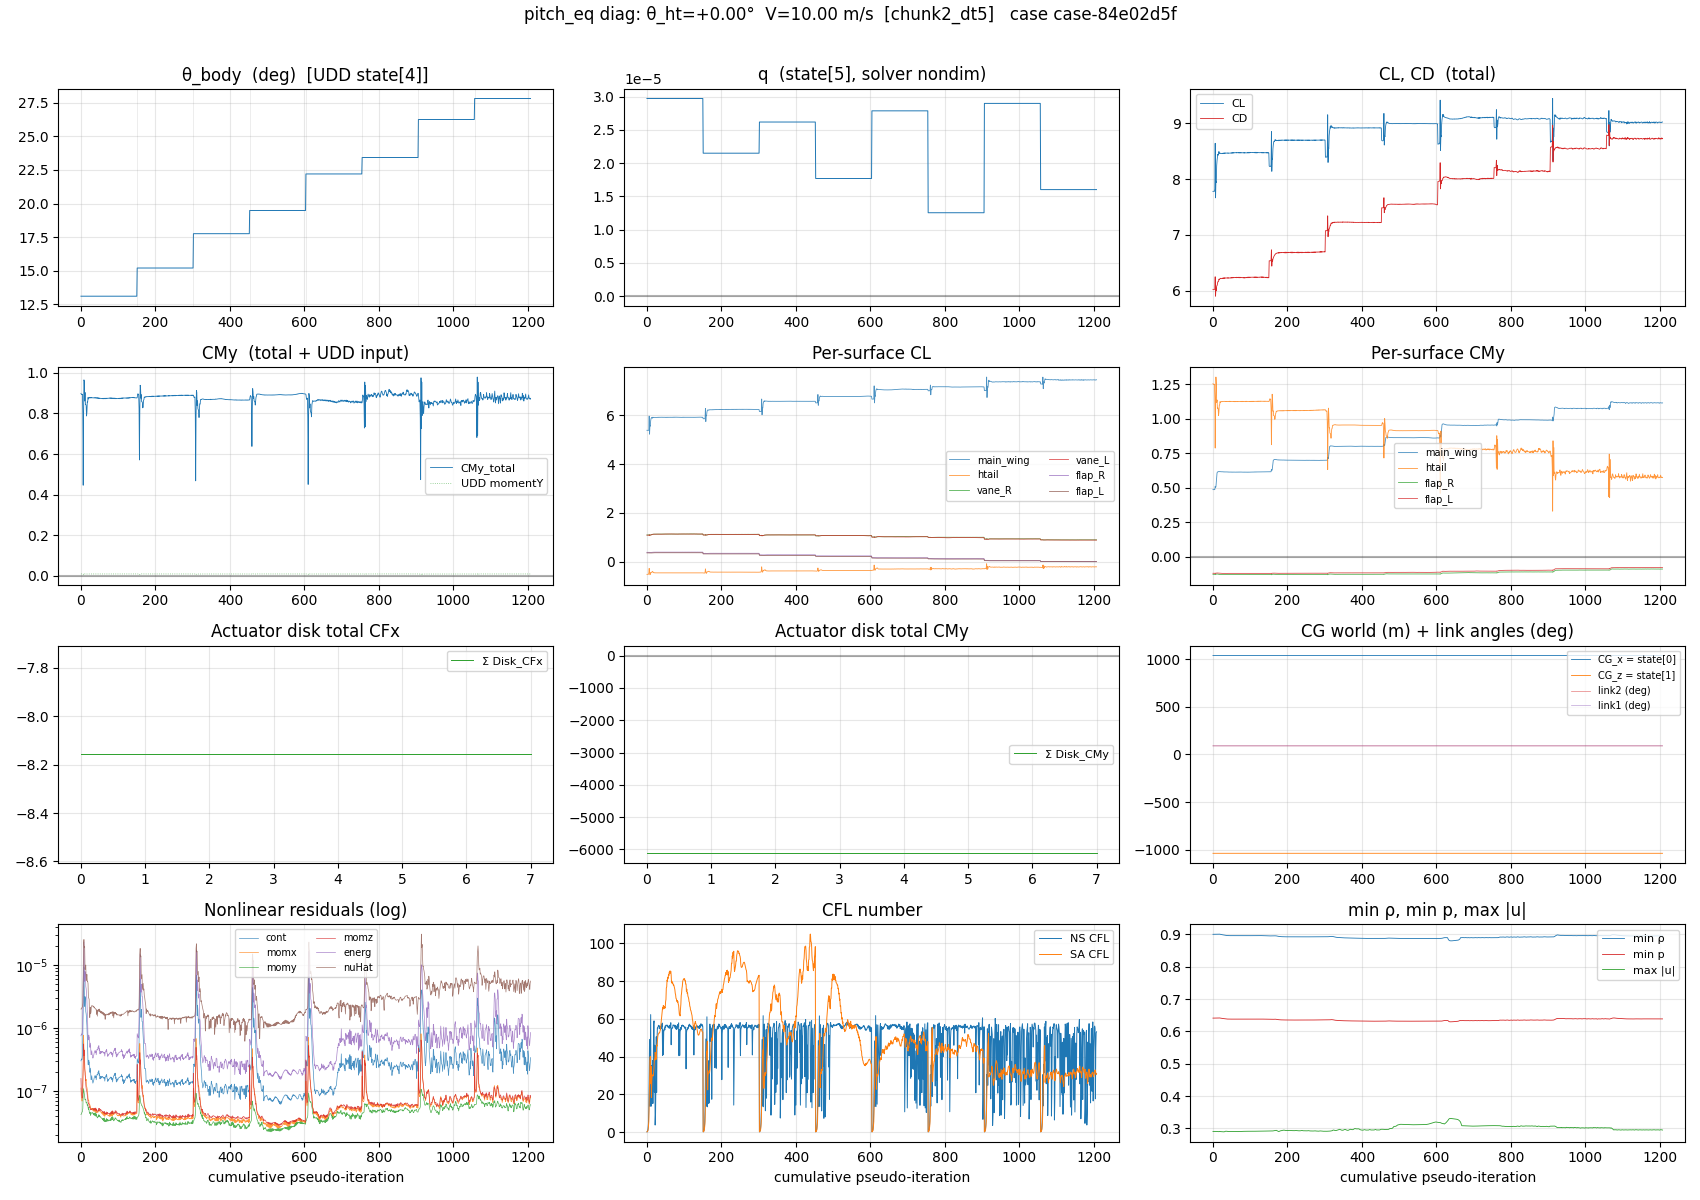
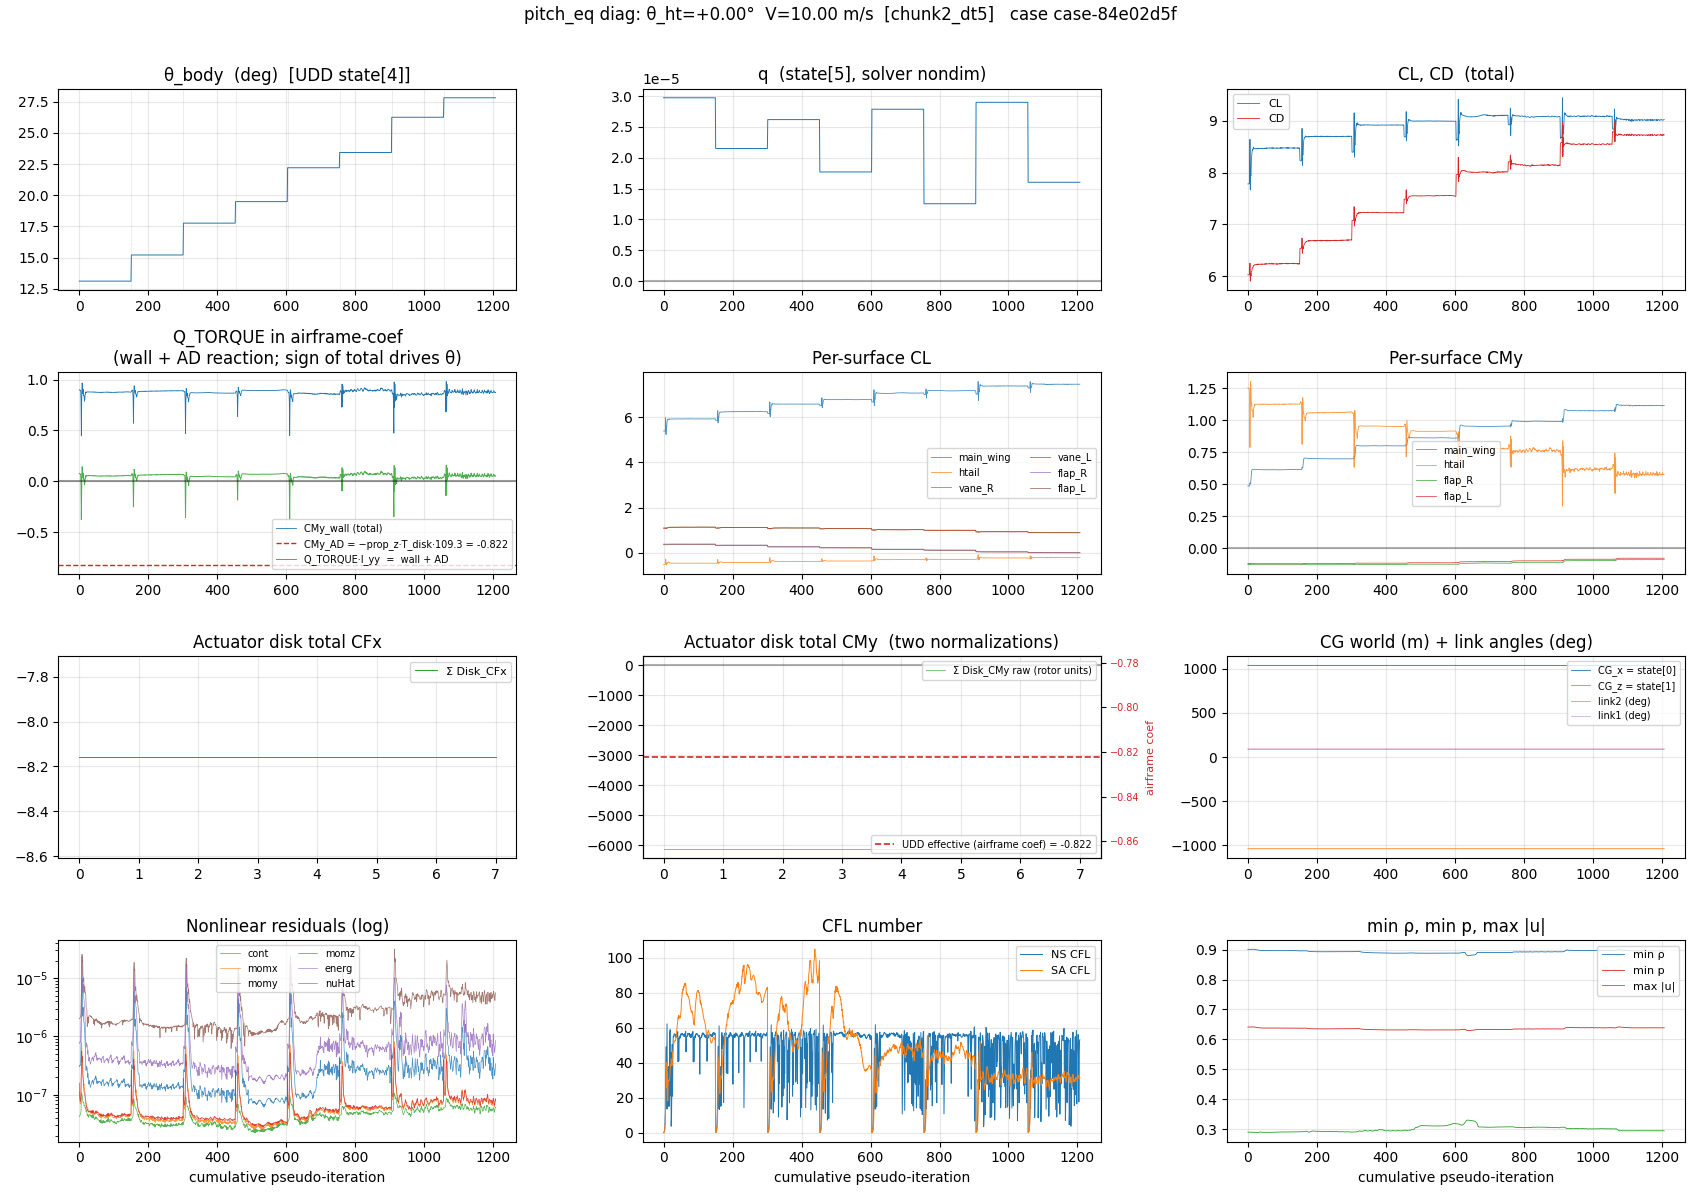
pitch_eq: diag plot makes the moment-cancellation visible
Replace the old CMy pane with a Q_TORQUE pane showing three traces in
the SAME airframe-coefficient unit, so the moment balance is readable:

  CMy_wall (blue)         — wall integration, what total_forces reports
  CMy_AD   (red dashed)   — disk reaction = −prop_z·T_disk_nd · k, where
                             k = median(CMy_wall / momentY_UDD) ≈ 66 for
                             our V_inf, converts solver-nondim → airframe coef
  Q_TORQUE (green)        — wall + AD  (sign of this drives θ)

This makes the near-cancellation regime visible.  For thN3p67/V12.86
the wall CMy stays one-signed (+0.4 … +0.6) but the AD reaction
subtracts ≈0.5 — so the green (wall + AD) curve dips below zero in
some steps even though the blue curve is always positive.  That's
exactly why state[5]=q changes sign between steps while CMy_wall does
not.  θ then drifts in the direction of the time-averaged green curve.

The actuator-disk pane now shows BOTH normalizations on dual y-axes:
the raw Disk_i_CMy in rotor-specific units (left) and the UDD's actual
contribution in airframe coef as a constant horizontal line (right).
The numbers in the thousands the raw trace shows are just rotor-frame
nondim; the UDD never sees them — it's fed wall momentY and adds the
constant disk reaction internally.

The script's `load_case()` now also pulls flow360.json and extracts
the airframe-UDD constants (I_yy_nd, prop_z_m, T_disk_nd, mc_x, mc_z),
[…]

diff --git a/post/v3/plot_pitch_eq_case_diags.py b/post/v3/plot_pitch_eq_case_diags.py
@@ -72,6 +72,19 @@ def load_case(case_id: str) -> dict:
                 data[fn] = None
                 continue
         data[fn] = pd.read_csv(local, sep=r"\s*,\s*", engine="python")
+    # also pull flow360.json once per case so we can read airframe UDD constants
+    if not (target / "flow360.json").exists():
+        try:
+            c = fl.Case.from_cloud(case_id=case_id)
+            c._download_file("flow360.json", to_folder=str(target), overwrite=True)
+        except Exception:
+            pass
+    try:
+        data["constants"] = next(
+            u["constants"] for u in json.loads((target/"flow360.json").read_text())
+            ["userDefinedDynamics"] if u["dynamicsName"] == "pitch_cyl3int_airframe")
+    except Exception:
+        data["constants"] = {}
     return data
 
 
@@ -95,6 +108,18 @@ def plot_case(key: str, th: float, V: float, chunk_lbl: str, case_id: str) -> Pa
     nl   = data['nonlinear_residual_v2.csv']
     mm   = data['minmax_state_v2.csv']
     cfl  = data['cfl_v2.csv']
+    consts = data.get('constants', {})
+    # default in case constants are missing
+    ratio = 1.0
+    cmy_ad_coef = 0.0
+    if tot is not None and udd is not None and consts:
+        end_tot = tot.groupby('physical_step').tail(1).reset_index(drop=True)
+        end_udd = udd.groupby('physical_step').tail(1).reset_index(drop=True)
+        with np.errstate(divide='ignore', invalid='ignore'):
+            r = end_tot['CMy'].to_numpy() / end_udd['momentY'].to_numpy()
+            r = r[np.isfinite(r) & (np.abs(r) < 1000)]
+            ratio = float(np.median(r)) if len(r) else 1.0
+        cmy_ad_coef = -consts['prop_z_m'] * consts['T_disk_nd'] * ratio
 
     # Use UDD as the "primary" length reference; other CSVs should match row count
     n_udd = len(udd) if udd is not None else 0
@@ -133,14 +158,23 @@ def plot_case(key: str, th: float, V: float, chunk_lbl: str, case_id: str) -> Pa
         ax.plot(x_tot, tot['CD'], lw=0.6, label='CD', color='C3')
     ax.set_title('CL, CD  (total)'); ax.legend(fontsize=8); ax.grid(alpha=0.3)
 
-    # 4. CMy total + UDD momentY (these match — sanity)
+    # 4. CMy_wall  +  AD reaction (both in airframe-coef)  +  Q_TORQUE×I_yy
+    # All in the SAME unit so the moment balance is visible.  The sign of
+    # the green (wall + AD) curve drives θ — note how it can flip even
+    # while the wall-only CMy stays one-signed.
     ax = axes[1,0]
     if tot is not None:
-        ax.plot(x_tot, tot['CMy'], lw=0.6, label='CMy_total', color='C0')
-    if udd is not None:
-        ax.plot(x_udd, udd['momentY'], lw=0.6, alpha=0.6, label='UDD momentY', color='C2', ls=':')
-    ax.set_title('CMy  (total + UDD input)'); ax.legend(fontsize=8); ax.grid(alpha=0.3)
-    ax.axhline(0, color='k', alpha=0.3)
+        ax.plot(x_tot, tot['CMy'].to_numpy(), lw=0.6, color='C0',
+                label='CMy_wall (total)')
+        if consts:
+            ax.axhline(cmy_ad_coef, color='C3', ls='--', lw=1.0,
+                        label=f'CMy_AD = −prop_z·T_disk·{ratio:.1f} = {cmy_ad_coef:+.3f}')
+            qt_coef = tot['CMy'].to_numpy() + cmy_ad_coef
+            ax.plot(x_tot, qt_coef, lw=0.7, color='C2', alpha=0.85,
+                    label='Q_TORQUE·I_yy  =  wall + AD')
+    ax.set_title('Q_TORQUE in airframe-coef\n(wall + AD reaction; sign of total drives θ)')
+    ax.legend(fontsize=7, loc='best'); ax.grid(alpha=0.3)
+    ax.axhline(0, color='k', alpha=0.4)
 
     # 5. Per-surface CL: main_wing, htail, vanes, aft_flap, fuselage
     ax = axes[1,1]
@@ -181,14 +215,24 @@ def plot_case(key: str, th: float, V: float, chunk_lbl: str, case_id: str) -> Pa
         ax.plot(x_ad, tot_cfx, lw=0.7, color='C2', label='Σ Disk_CFx')
     ax.set_title('Actuator disk total CFx'); ax.legend(fontsize=8); ax.grid(alpha=0.3)
 
-    # 8. AD total CMy (10 disks)
+    # 8. AD total CMy: raw rotor-units (left) vs UDD effective coef (right)
     ax = axes[2,1]
     if ad is not None:
         x_ad = make_iter(ad)
-        tot_cmy = sum(ad[f'Disk{i}_CMy'] for i in range(10) if f'Disk{i}_CMy' in ad.columns)
-        ax.plot(x_ad, tot_cmy, lw=0.7, color='C2', label='Σ Disk_CMy')
-    ax.set_title('Actuator disk total CMy'); ax.legend(fontsize=8); ax.grid(alpha=0.3)
-    ax.axhline(0, color='k', alpha=0.3)
+        tot_cmy_raw = sum(ad[f'Disk{i}_CMy'] for i in range(10)
+                          if f'Disk{i}_CMy' in ad.columns)
+        ax.plot(x_ad, tot_cmy_raw, lw=0.7, color='C2', alpha=0.6,
+                label='Σ Disk_CMy raw (rotor units)')
+        ax.legend(fontsize=7, loc='upper right')
+        if consts:
+            ax2 = ax.twinx()
+            ax2.axhline(cmy_ad_coef, color='C3', ls='--', lw=1.2,
+                        label=f'UDD effective (airframe coef) = {cmy_ad_coef:+.3f}')
+            ax2.set_ylabel('airframe coef', color='C3', fontsize=8)
+            ax2.tick_params(axis='y', labelcolor='C3', labelsize=7)
+            ax2.legend(fontsize=7, loc='lower right')
+    ax.set_title('Actuator disk total CMy  (two normalizations)')
+    ax.grid(alpha=0.3); ax.axhline(0, color='k', alpha=0.3)
 
     # 9. CG world position (state[0], state[1])
     ax = axes[2,2]
